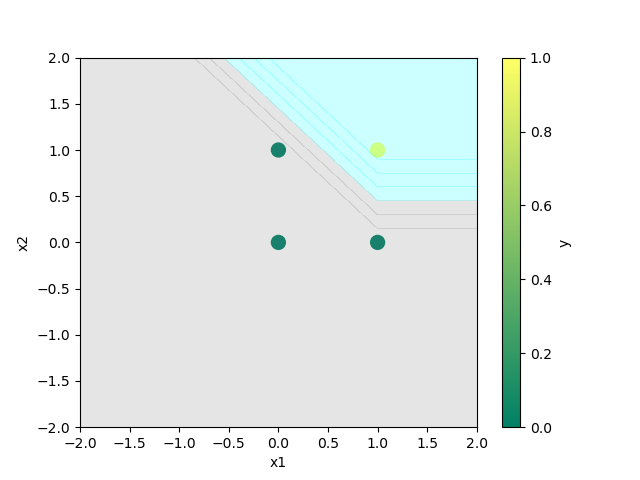
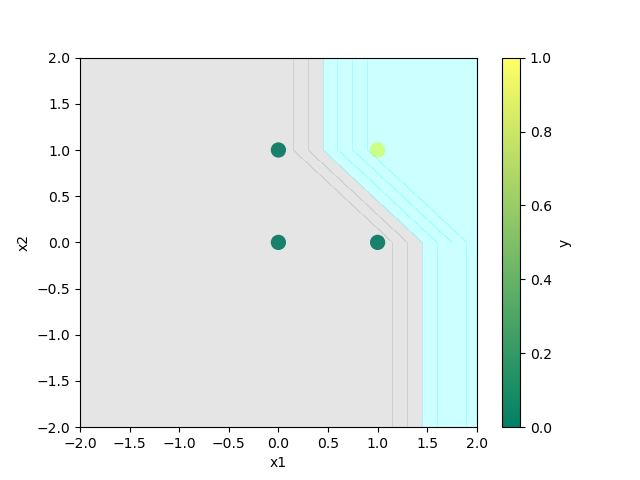
Updated

Changed region(s): [[0.5938, 0.3438, 0.75, 0.9062], [0.3438, 0.125, 0.5625, 0.3125]]

diff --git a/Desktop/Perceptron/utils/model.py b/Desktop/Perceptron/utils/model.py
@@ -1,22 +1,31 @@
 import numpy as np
 class Perceptron:
-  def __init__(self,eta,epochs):
+  def __init__(self,eta,epochs,nonlinear:bool=0,earlystopping:bool=0):
     self.weights=np.random.randn(3)*1e-3
     self.eta=eta
     self.epochs=epochs
+    self.nonlinear=nonlinear
+    self.earlystopping=earlystopping
     print("{}Initial weights with {} errors and for {} epochs")
   def activationfunction(self,inputs,weights):
     z=np.dot(inputs,weights)
-    return np.where(z>0,1,0)
+    if self.nonlinear==0:
+        return np.where(z>0,1,0)
+    else:
+        return np.where(np.tan(z)>0,1,0)
   def fit(self,X,Y):
     self.X=X
     self.Y=Y
     x_bias=np.c_[self.X,-np.ones((len(self.X),1))]
+    c=100
     for i in range(self.epochs):
       z=self.activationfunction(x_bias,self.weights)
       self.loss=self.Y-z
-      print(f"Error is: {self.loss}\n")
+      print(f"Error is: {self.loss}\n","and epoch is",i)
       self.weights=self.weights+ self.eta *np.dot(x_bias.T,self.loss)
+      if self.earlystopping==1 and np.absolute(c-(np.sum(self.loss)))<0.1:
+          break  
+      c=np.absolute(np.sum(self.loss))
       
   def predict(self,X):
     x_bias=np.c_[X,-np.ones((len(X),1))]

diff --git a/Desktop/Perceptron/and.py b/Desktop/Perceptron/and.py
@@ -6,7 +6,7 @@ from utils.all_utils import saveplot
 x={"x1":[1,1,0,0],"x2":[1,0,1,0],"y":[1,0,0,0]}
 df=pd.DataFrame(x)
 X,y =prepare(df)
-model=Perceptron(eta=0.1,epochs=20)
+model=Perceptron(eta=0.1,epochs=20,nonlinear=0,earlystopping=1)
 model.fit(X,y)
 model.total_loss()
 saveplot(df,model)
